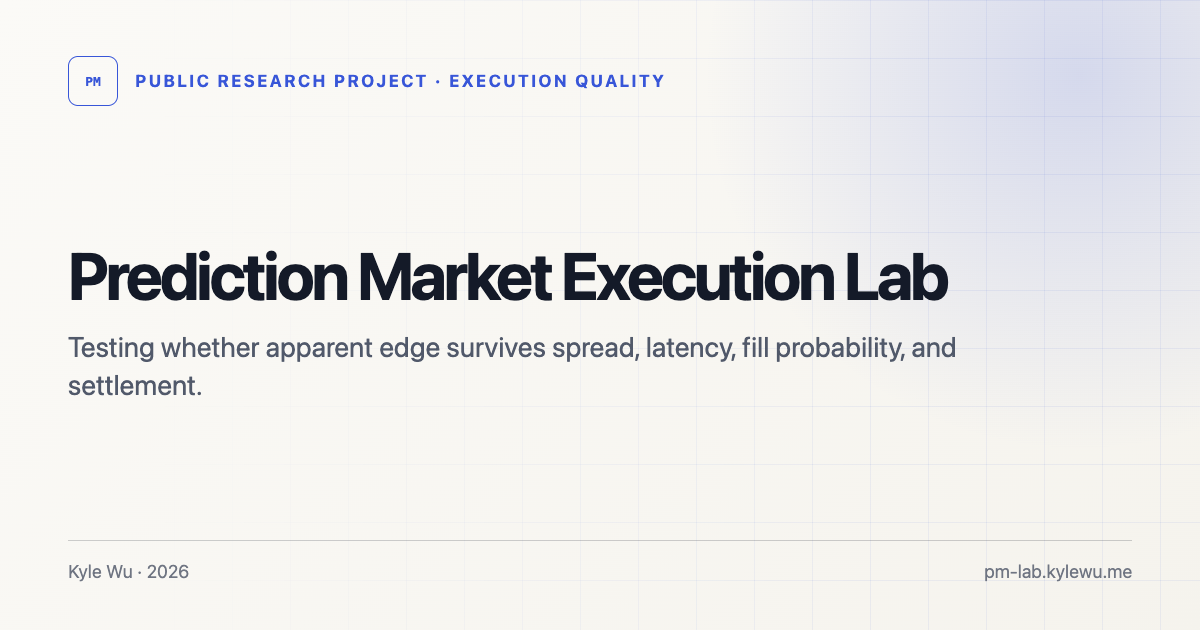
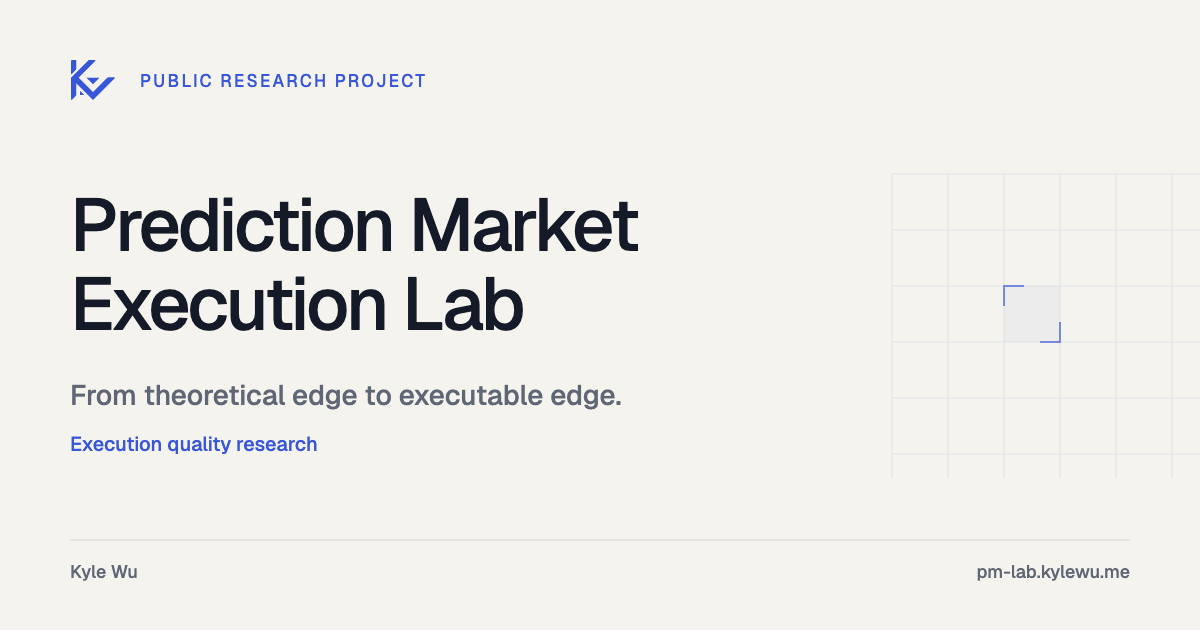
fix(og): replace generated artwork with vectors (#45)

diff --git a/site/assets/og-image.README.md b/site/assets/og-image.README.md
@@ -1,0 +1,18 @@
+# Static Open Graph card
+
+`og-image.svg` is the editable source. All artwork is vector geometry; Geist Latin
+is embedded under the SIL Open Font License in `og-font-OFL.txt`. The site serves
+`og-image.png`, not the SVG or a dynamic image endpoint.
+
+Edit the SVG text, coordinates or colours, then render using Node.js and an
+available Playwright installation and Google Chrome:
+
+```sh
+node scripts/render_og_image.cjs
+```
+
+If Playwright is supplied by an external tooling environment, set `NODE_PATH` to
+its `node_modules` directory. No website or trading runtime dependency is needed.
+The renderer waits for the embedded font, checks the 1200 × 630 canvas and text
+safe area, and writes the PNG only after those checks pass. Inspect the output
+at full size and as a small sharing card before publishing.
